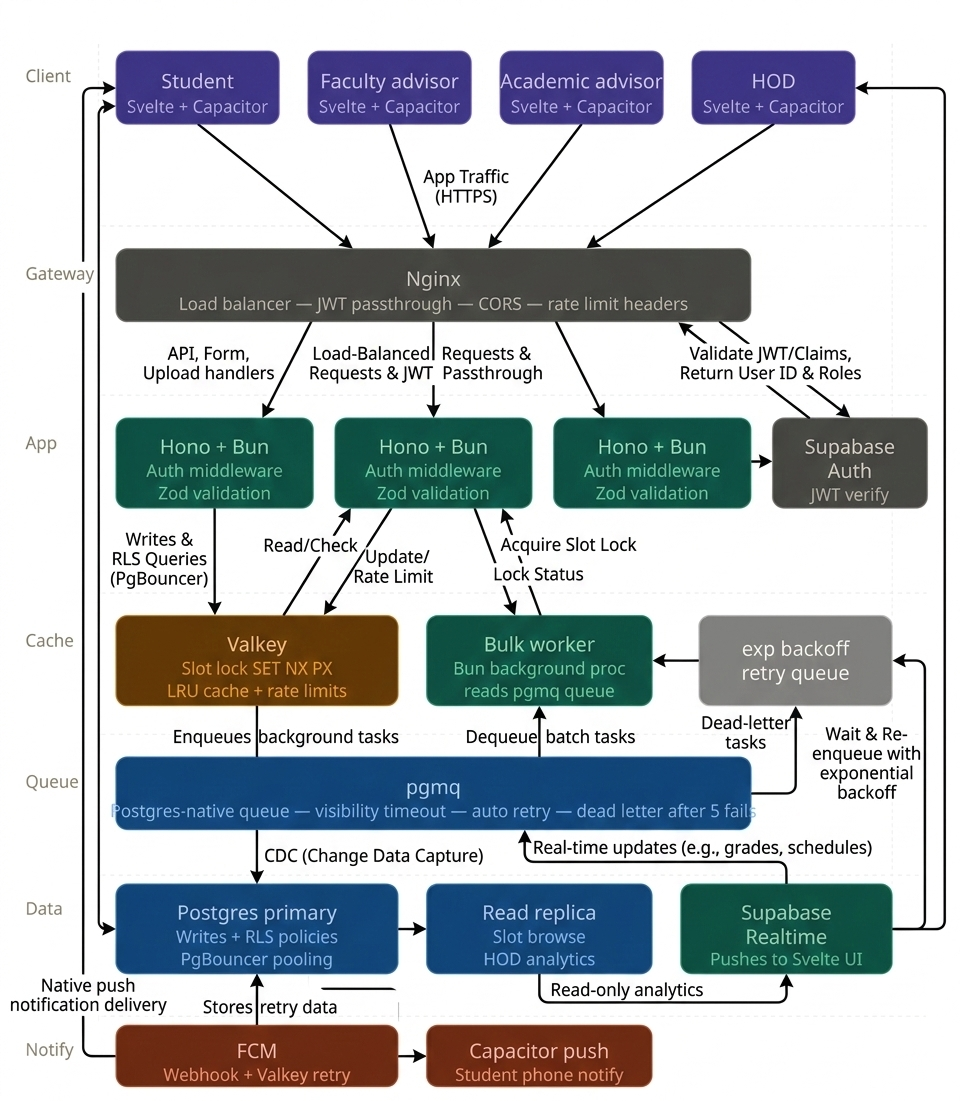
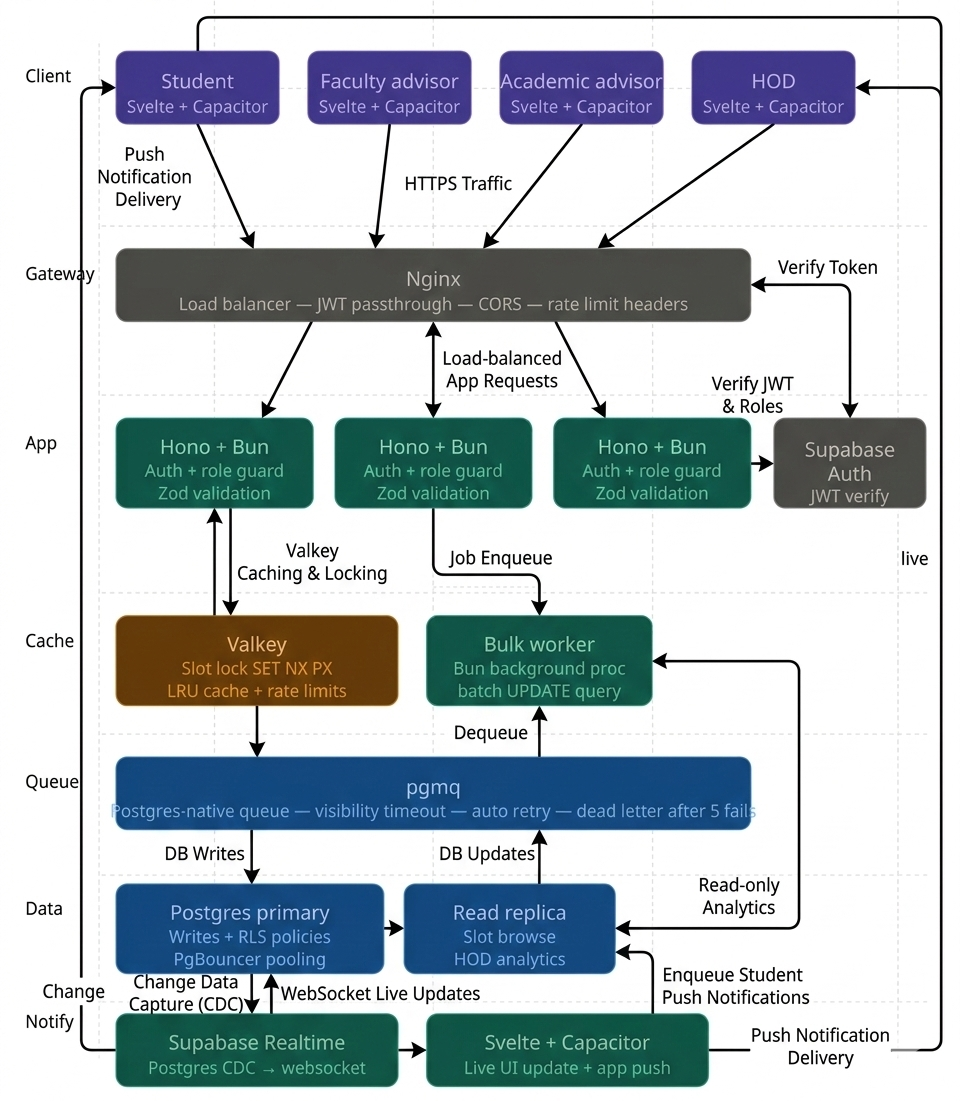
made needed changes

diff --git a/README.md b/README.md
@@ -1,14 +1,37 @@
-# SRM-Appointment-Booker
+# Fixa
 
-##  Color Palettes
-* [Palette 1 (Dark/Slate/Orange)](https://coolors.co/palette/2d3142-4f5d75-bfc0c0-ffffff-ef8354)
-* [Palette 2 (Red/Light/Blue)](https://coolors.co/palette/e63946-f1faee-a8dadc-457b9d-1d3557)
+Fixa is an appointment booking application for SRM IST Kattankulathur. It allows students, faculty advisors, academic advisors, and heads of departments to schedule and manage meetings.
 
-##  Svelte Component Libraries
-* [Melt UI](https://next.melt-ui.com/components/combobox/)
-* [Bits UI](https://bits-ui.com/)
-* [Flowbite Svelte](https://flowbite-svelte.com/)
+## Architecture overview
 
-##  Icons
-* [Phosphor Icons](https://phosphoricons.com/)
-* [Lucide](https://lucide.dev/)
+The application uses a Svelte frontend wrapped in Capacitor for mobile deployment. All client traffic passes through an Nginx gateway. Nginx handles load balancing, cross-origin resource sharing, and rate limit headers.
+
+The core backend runs on Hono and Bun. These services handle business logic and data validation using Zod. Supabase Auth manages user authentication. The Hono backend verifies JSON Web Tokens from the client to determine user roles and permissions.
+
+## Data and concurrency
+
+Postgres serves as the primary database. Write operations and row-level security queries route through PgBouncer for connection pooling. A read replica supports heavier queries, such as analytics for department heads. Supabase Realtime monitors database changes and pushes live updates to the Svelte user interface.
+
+Booking appointments requires strict concurrency control to prevent double-booking. The system uses Valkey for distributed locking using SET NX PX commands. Valkey also manages the least-recently-used cache and application-level rate limits.
+
+## Background jobs and notifications
+
+A dedicated Bun background worker processes asynchronous tasks. It reads from pgmq, a Postgres-native queue. 
+
+The queue architecture includes visibility timeouts and automatic retries. If a task fails five times, it moves to an exponential backoff queue. Persistent failures resolve to a dead-letter queue for manual review.
+
+The background worker also handles push notifications. It sends webhook requests to Firebase Cloud Messaging, which delivers the payload to the Capacitor push plugins on student devices. Valkey stores retry data for failed webhook deliveries.
+
+## Tech stack
+
+* Frontend: Svelte, Capacitor
+* Gateway: Nginx
+* API: Hono, Bun
+* Authentication: Supabase Auth
+* Database: Postgres (Primary and Replica), PgBouncer
+* Realtime: Supabase Realtime
+* Cache & Locking: Valkey
+* Queue: pgmq
+* Notifications:  Supabase Real time To svelte ui using Webhook 
+
+***

diff --git a/ussables.md b/ussables.md
@@ -1,0 +1,14 @@
+# SRM-Appointment-Booker
+
+##  Color Palettes
+* [Palette 1 (Dark/Slate/Orange)](https://coolors.co/palette/2d3142-4f5d75-bfc0c0-ffffff-ef8354)
+* [Palette 2 (Red/Light/Blue)](https://coolors.co/palette/e63946-f1faee-a8dadc-457b9d-1d3557)
+
+##  Svelte Component Libraries
+* [Melt UI](https://next.melt-ui.com/components/combobox/)
+* [Bits UI](https://bits-ui.com/)
+* [Flowbite Svelte](https://flowbite-svelte.com/)
+
+##  Icons
+* [Phosphor Icons](https://phosphoricons.com/)
+* [Lucide](https://lucide.dev/)
